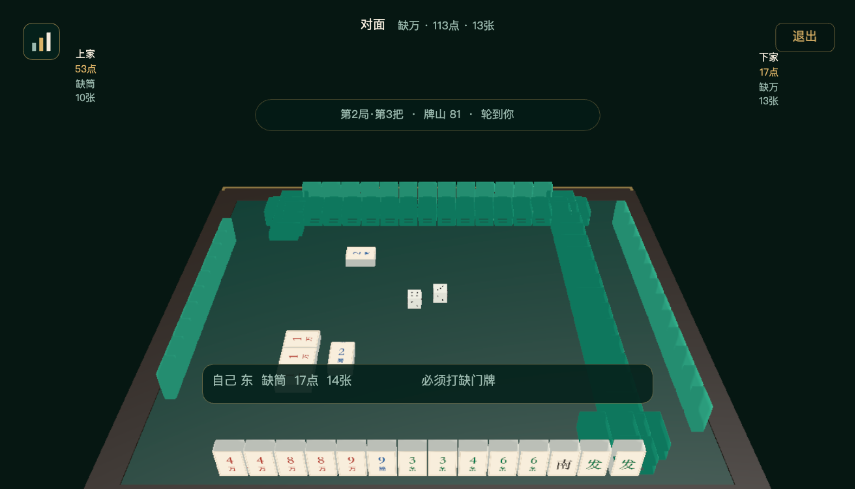
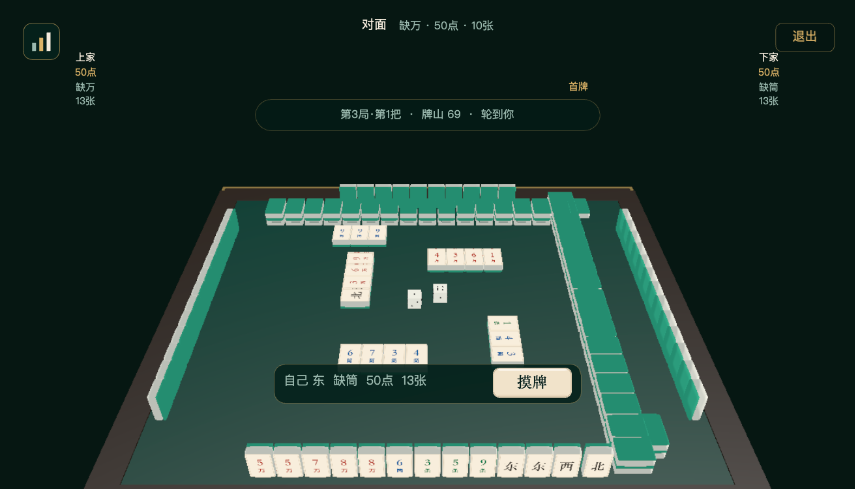
fix(layair): 牌恢复「绿背 + 白身」两段模型、整体缩小一档，牌墙 17 墩留缝
上一版把牌改成整只单色是理解错了：一张牌是一个完整长方体，但由背面 30% 厚的
绿色小长方体和正面 70% 厚的白色长方体拼成——朝向自己的牌看到白面，
别人家看到绿背 + 牌顶一绿一白。

- 恢复两段模型；立着 / 平躺牌面朝上 / 平躺牌背朝上三种摆法共用一个 addTileBody，
  用内外两个节点「先翻倒、再水平转」，旋转顺序才不受欧拉角顺序影响
- 「两种绿」的真正原因是牌面贴图里又画了一条绿顶带，和牌背的绿叠在一起；贴图已去掉
- 侧家手牌朝向按「白面朝主人」重排：左家扣着转 -90、右家扣着转 +90，相机看到的是牌背
- 牌整体缩小一档：60×86×28 → 54×78×26；牌墙墩距固定 60，17 墩之间每墩空 6 的缝，
  不再相互重叠
- README 与 3d-table 截图同步

diff --git a/layair/src/ui/Table3D.ts b/layair/src/ui/Table3D.ts
@@ -22,13 +22,11 @@ export interface LastMark {
   h: number
 }
 
-const TILE_W = 60
-const TILE_H = 86
-const TILE_T = 28
+const TILE_W = 54
+const TILE_H = 78
+const TILE_T = 26
 /** 牌背玉绿：比桌面亮很多，扣着的牌从深绿桌面上跳出来 */
 const TILE_BACK = '#4CAF87'
-/** 牌墙用同一族的绿、暗一档：它平躺在桌上，要比立着的手牌退后一点 */
-const WALL_BACK = '#369470'
 const TABLE_W = 1280
 /** 桌面进深：牌墙是平躺的真牌（进深一张牌高 86），桌面太浅左右两条墙就塞不下 */
 const TABLE_D = 1080
@@ -42,12 +40,13 @@ const HAND_Z_SELF = TABLE_D / 2 - HAND_EDGE_GAP - TILE_T / 2
 const HAND_Z_OPP = -HAND_Z_SELF
 const HAND_X_SIDE = TABLE_W / 2 - HAND_EDGE_GAP - TILE_T / 2
 /**
- * 牌墙：一墩就是一张平躺的牌。17 墩 × 牌宽 60 = 1020，和手里的牌完全同尺寸，
- * 不再单独做一套「又细又小」的牌墙模型（那套比手牌小一半，看着不像牌）。
+ * 牌墙：一墩就是一张平躺的牌，和手里的是同一个模型、同一套尺寸；
+ * 不再单独做一套「又细又小」的牌墙（那套比手牌小一半，看着不像牌）。
  */
 const STACKS = 17
-const WALL_STEP = TILE_W
-const WALL_LEN = TILE_W - 2.5
+/** 一整条牌墙的墩距固定 60：牌宽 54，所以 17 墩之间每墩空出 6 的缝，不会叠在一起 */
+const WALL_STEP = 60
+const WALL_LEN = TILE_W
 const WALL_SPAN = STACKS * WALL_STEP
 /** 牌墙 / 副露 / 牌河的摆放线（离桌心的距离），由外向内依次是 手牌 → 牌墙 → 副露 → 牌河 */
 const WALL_Z = 430
@@ -358,15 +357,20 @@ export class Table3D {
   }
 
   /**
-   * 一张牌的三维模型——全桌只有这一种：
-   *   立着（手牌）= 牌宽 × 牌高 × 牌厚
-   *   平躺（牌河 / 副露 / 牌墙）= 牌宽 × 牌厚 × 牌高
-   * 亮着的牌是象牙白牌身 + 正面牌面贴图；扣着的牌整只玉绿。
+   * 一张牌：整只是同一个外形（牌宽 × 牌高 × 牌厚），由两段拼成——
+   * 厚度方向靠**背面 30%** 是玉绿（牌背），靠**正面 70%** 是象牙白（牌身，正面贴牌面）。
    *
-   * 早先把牌拆成「背面 30% 绿 + 牌身 70% 白」两段长方体，
-   * 想用一条绿边把牌和桌面分开——结果从俯视角度看手牌，
-   * 牌顶会多出一条绿棱（自家牌顶上两种绿），三家的牌身又会露出大白面。
-   * 现在亮牌整只白、扣牌整只绿，顶面颜色跟着牌的身份走，不会再混。
+   * 所以同一张牌站在不同位置，看到的东西不一样：
+   * - 朝向自己的牌：看到白色牌面；
+   * - 别人家的牌：看到绿色牌背，牌顶上是一条绿 + 一条白。
+   *
+   * 三种摆法都走这一个函数，只是整组绕 X 轴翻倒，保证「绿背在背面、白身在正面」不变：
+   * - stand     立着（手牌）
+   * - flatUp    平躺、牌面朝上（牌河 / 副露）
+   * - flatDown  平躺、牌背朝上（牌墙）
+   *
+   * 注意：牌面贴图里不要再画绿顶带——绿背已经由牌体那 30% 提供了，
+   * 贴图上再画一条绿，手牌顶上就会叠出「两种绿」。
    */
   private addTileBody(
     tile: Tile | null,
@@ -374,52 +378,55 @@ export class Table3D {
     y: number,
     z: number,
     parent: Laya.Sprite3D,
-    standing: boolean,
+    mode: 'stand' | 'flatUp' | 'flatDown',
     rotY = 0
   ): Laya.Sprite3D {
+    // 外层节点只负责水平转向（左右两条牌墙要转 90°），内层负责翻倒。
+    // 分成两个节点做，旋转顺序才是确定的：先翻倒，再水平转，不会受欧拉角顺序影响。
     const group = new Laya.Sprite3D()
     group.transform.position = new Laya.Vector3(x, y, z)
     group.transform.rotationEuler = new Laya.Vector3(0, rotY, 0)
     parent.addChild(group)
 
-    const w = TILE_W
-    const h = standing ? TILE_H : TILE_T
-    const d = standing ? TILE_T : TILE_H
-    // 牌身：亮牌象牙白，扣牌玉绿（扣牌的六个面都是绿的，从上/侧看都是牌背）
-    this.addRounded(w, h, d, 2.4, this.bodyMaterial(tile ? COLORS.ivory : TILE_BACK), 0, 0, 0, group)
+    const rotX = mode === 'stand' ? 0 : mode === 'flatUp' ? -90 : 90
+    const body = new Laya.Sprite3D()
+    body.transform.rotationEuler = new Laya.Vector3(rotX, 0, 0)
+    group.addChild(body)
+
+    const greenT = TILE_T * 0.3
+    const whiteT = TILE_T - greenT
+    // 绿背：厚度靠后那 30%
+    this.addRounded(TILE_W, TILE_H, greenT, 2.2, this.bodyMaterial(TILE_BACK), 0, 0, -TILE_T / 2 + greenT / 2, body)
+    // 白身：其余 70%，往绿背方向多咬 0.5 防接缝漏光
+    this.addRounded(
+      TILE_W,
+      TILE_H,
+      whiteT + 0.5,
+      2.2,
+      this.bodyMaterial(COLORS.ivory),
+      0,
+      0,
+      TILE_T / 2 - whiteT / 2 - 0.25,
+      body
+    )
     if (!tile) return group
 
-    // 牌面贴图：立着贴在正面（+z），平躺贴在顶面（+y，绕 X 轴翻平）
-    if (standing) {
-      this.addRounded(
-        w - 1.5,
-        h - 1.5,
-        1.6,
-        0.8,
-        this.faceMaterial(this.faceTexture(tile)),
-        0,
-        0,
-        TILE_T / 2 + 0.8,
-        group
-      )
-    } else {
-      this.addRounded(
-        w - 1.5,
-        d - 1.5,
-        1.6,
-        0.8,
-        this.faceMaterial(this.faceTexture(tile)),
-        0,
-        TILE_T / 2 + 0.8,
-        0,
-        group,
-        -90
-      )
-    }
+    // 牌面贴图贴在白身正面（局部 +z）；平躺时跟着整组一起翻到顶面
+    this.addRounded(
+      TILE_W - 1.5,
+      TILE_H - 1.5,
+      1.6,
+      0.8,
+      this.faceMaterial(this.faceTexture(tile)),
+      0,
+      0,
+      TILE_T / 2 + 0.8,
+      body
+    )
     return group
   }
 
-  /** 立着的牌：自家 / 对家 / 左右家手牌。faceUp=false 时整只是绿牌背 */
+  /** 立着的牌：自家 / 对家 / 左右家手牌。faceUp=false 时绿背朝相机 */
   private addStandingTile(
     tile: Tile,
     x: number,
@@ -429,17 +436,18 @@ export class Table3D {
     parent: Laya.Sprite3D,
     rotationY = 0
   ) {
-    this.addTileBody(faceUp ? tile : null, x, y, z, parent, true, rotationY)
+    this.addTileBody(faceUp ? tile : null, x, y, z, parent, 'stand', rotationY)
   }
 
   /** 平躺的牌：弃牌、副露。牌面朝上 */
   private addFlatTile(tile: Tile, x: number, z: number, parent: Laya.Sprite3D, rotationY = 0): Laya.Sprite3D {
-    return this.addTileBody(tile, x, TILE_T / 2 + 2, z, parent, false, rotationY)
+    return this.addTileBody(tile, x, TILE_T / 2 + 2, z, parent, 'flatUp', rotationY)
   }
 
   /**
-   * 牌墙：一墩就是两张平躺的牌叠在一起（牌背朝上、整墩玉绿）。
-   * 尺寸和手里的牌完全一样：沿桌边 = 牌宽，垂直桌边 = 牌高，每层 = 牌厚。
+   * 牌墙：一墩就是两张平躺的牌叠在一起，牌背朝上。
+   * 和手里的牌是同一个模型：沿桌边 = 牌宽、垂直桌边 = 牌高、每层 = 牌厚。
+   * 17 墩 × 墩距 60 = 1020，牌宽 54，所以每墩之间空 6，能一张一张数出来。
    */
   private addWall(visual: Array<Array<[boolean, boolean]>>) {
     const half = WALL_SPAN / 2
@@ -454,12 +462,12 @@ export class Table3D {
             // 上下两条墙：沿 x 排，进深朝 z
             const x = -half + i * WALL_STEP + WALL_STEP / 2
             const z = seat === 2 ? -WALL_Z : WALL_Z
-            this.addRounded(WALL_LEN, TILE_T, TILE_H, 2.4, this.bodyMaterial(WALL_BACK), x, y, z, this.dynamicRoot)
+            this.addTileBody(null, x, y, z, this.dynamicRoot, 'flatDown')
           } else {
             // 左右两条墙：整墩转 90°，沿 z 排，进深朝 x
             const x = seat === 3 ? -WALL_X : WALL_X
             const z = -half + i * WALL_STEP + WALL_STEP / 2
-            this.addRounded(TILE_H, TILE_T, WALL_LEN, 2.4, this.bodyMaterial(WALL_BACK), x, y, z, this.dynamicRoot)
+            this.addTileBody(null, x, y, z, this.dynamicRoot, 'flatDown', 90)
           }
         }
       }
@@ -474,7 +482,7 @@ export class Table3D {
   ) {
     if (!tiles.length) return
     // 牌与牌留 2 的缝：不留缝时一排牌会糊成一条，看不出几张
-    const step = Math.min(TILE_W + 2, 960 / Math.max(1, tiles.length))
+    const step = Math.min(TILE_W + 3, 960 / Math.max(1, tiles.length))
     const startX = -((tiles.length - 1) * step) / 2
     for (let i = 0; i < tiles.length; i += 1) {
       const tile = tiles[i]
@@ -489,11 +497,10 @@ export class Table3D {
       } else {
         const z = startX + i * step
         const x = seat === 3 ? -HAND_X_SIDE : HAND_X_SIDE
-        // 相机在本家右后上方，看左右两家时是从斜前方看过去：
-        // 必须让「绿背」朝向相机这一侧，否则相机看到的是白身那一整面（60×86），
-        // 屏幕上就是一大片白，像把牌面亮出来了。
-        //   左家（x 负）→ 绿背朝 +x；右家（x 正）→ 绿背朝 -x。
-        // 亮牌时反过来，让牌面朝桌心。
+        // 一张牌的「白面」永远朝向它的主人：
+        //   左家（x 负）白面朝 -x → 扣着时整组转 -90，牌背朝 +x（相机这一侧）；
+        //   右家（x 正）白面朝 +x → 扣着时整组转 +90，牌背朝 -x。
+        // 亮牌时反过来，让白面转向相机。
         const rot = seat === 3 ? (faceUp ? 90 : -90) : faceUp ? -90 : 90
         this.addStandingTile(tile, x, TILE_H / 2 + 2, z, faceUp, this.dynamicRoot, rot)
       }

diff --git a/layair/README.md b/layair/README.md
@@ -39,21 +39,23 @@
 - **更小的中央提示**：中间只保留一条窄状态条，不再用大面板挡住牌河；成 / 杠 / 碰 / 过按钮收进底部操作条。3D 结算卡贴右上/左上放，给对家亮出的牌面让出中央。
 - **骰子**：两颗 3D 骰子，滚动时大、落定后缩小；不再显示 2D 骰子。
 - **3D 牌面**：牌是带厚度的 3D 圆角长方体（12 条棱、8 个角都做圆弧），牌面文字由 Canvas 生成贴图；牌与牌之间只留极小间隙，不再每张牌套一圈黑边。本家牌面朝向相机，对家 / 左右家背面朝相机，亮牌时翻到正面。
-- **全桌只有一种牌模型**：一张牌就是一块 60 × 86 × 28 的圆角长方体。
-  - **亮着的牌**（自家手牌、牌河、副露、亮牌后的赢家）：整只是象牙白，牌面贴图贴在正面（立着）或顶面（平躺）。
-  - **扣着的牌**（对家 / 左右家手牌）：整只是玉绿 `#4CAF87`，六个面都是牌背，从任何角度看都不会露出白面。
-  - **牌墙**：一墩就是两张平躺的牌叠在一起，牌背朝上，用同一族的绿暗一档 `#369470`。
-    17 墩 × 牌宽 60 = 1020，**和手里的牌完全同尺寸**——早先牌墙单独做成了 34 × 18 × 11 的细条，
-    比手牌小一半，看着完全不像牌。
-
-  > 中间试过「背面 30% 绿 + 牌身 70% 白」的两段式模型：想用一条绿边把牌和桌面分开，
-  > 结果从俯视角度看，自家手牌顶上多出一条绿棱（两种绿），三家的牌身又露出大片白面。
-  > 现在改成整只同色，牌顶颜色跟着牌的身份走，不会再混。
+- **全桌只有一种牌模型**：每张牌都是同一块圆角长方体 `54 × 78 × 26`，
+  由两段拼成——厚度方向靠**背面 30%** 是玉绿 `#4CAF87`（牌背），靠**正面 70%** 是象牙白（牌身）。
+  - 所以同一张牌，站位不同看到的不同：**朝向自己的牌看到白色牌面；别人家的牌看到绿色牌背，
+    牌顶上是一条绿 + 一条白。**
+  - 立着（手牌）、平躺牌面朝上（牌河 / 副露）、平躺牌背朝上（牌墙）三种摆法都走同一个函数，
+    只是整组先绕 X 轴翻倒、再水平转向（拆成内外两个节点做，旋转顺序才确定）。
+  - **踩过的坑**：牌面贴图里一度又画了一条绿顶带，于是手牌顶上同时有贴图的绿和牌背的绿，
+    看着就是「两种绿」；侧家手牌的白面又没朝对方向，屏幕上是一大片白。
+    现在贴图里只有牌面、绿背只由牌体提供，朝向也按「白面朝主人」排好了。
+- **牌墙**：一墩就是两张平躺的牌叠在一起（牌背朝上），和手里的牌**同一套尺寸和同一套模型**。
+  17 墩 × 墩距 60 = 1020，牌宽 54，所以每墩之间空 6 的缝，能一墩一墩数出来；
+  早先牌墙单独做成 34 × 18 × 11 的细条，比手牌小一半，而且 17 墩挤在一起看不见缝。
 - **整体提亮**：场景自带的环境光 (0.42,0.46,0.53) 偏暗，运行时改写为 (0.72,0.76,0.78)、
   平行光 intensity 1.35、材质 albedoIntensity 1.15；桌面同时压暗到 #0F3D31，牌墙 #35916D、
   牌背 #4CAF87、白身象牙，四层亮度递增，牌和桌面不再粘在一起。
 - **累计战绩 / 存档**：左上角图表图标打开累计战绩（每家成牌次数、成牌点数、大/小摸子、输赢金额）。右上角退出会询问「保留并退出 / 清空并退出」；保留会把当前牌局和战绩写入 LayaAir / 微信本地存储，下次进入从当前继续；清空等于重置。
-- **牌墙**：摸走哪一层就空哪一层；两层牌之间、相邻墩之间留细小间隙；只剩上层 / 只剩下层时只占半格高度，墙上会留下真实的缺口。牌墙的牌与手牌同尺寸、同一种绿牌背，只是平躺、牌背朝上。
+- **牌墙消减**：摸走哪一层就空哪一层；只剩上层 / 只剩下层时只占半格高度，墙上会留下真实缺口。
 - **手牌**：四家手牌紧挨排列，牌体圆角、间隙极小，既有分隔又不会散开。
   四家离桌沿统一留一张牌厚（28，牌体中心 = 桌沿 - 28 - 14）；早先自家留 120、其它三家只留 4~22，
   近处的自己离桌边特别远，另外三家却卡在桌沿上。刚摸到的牌只往右让一点，底部仍和手牌齐平。
